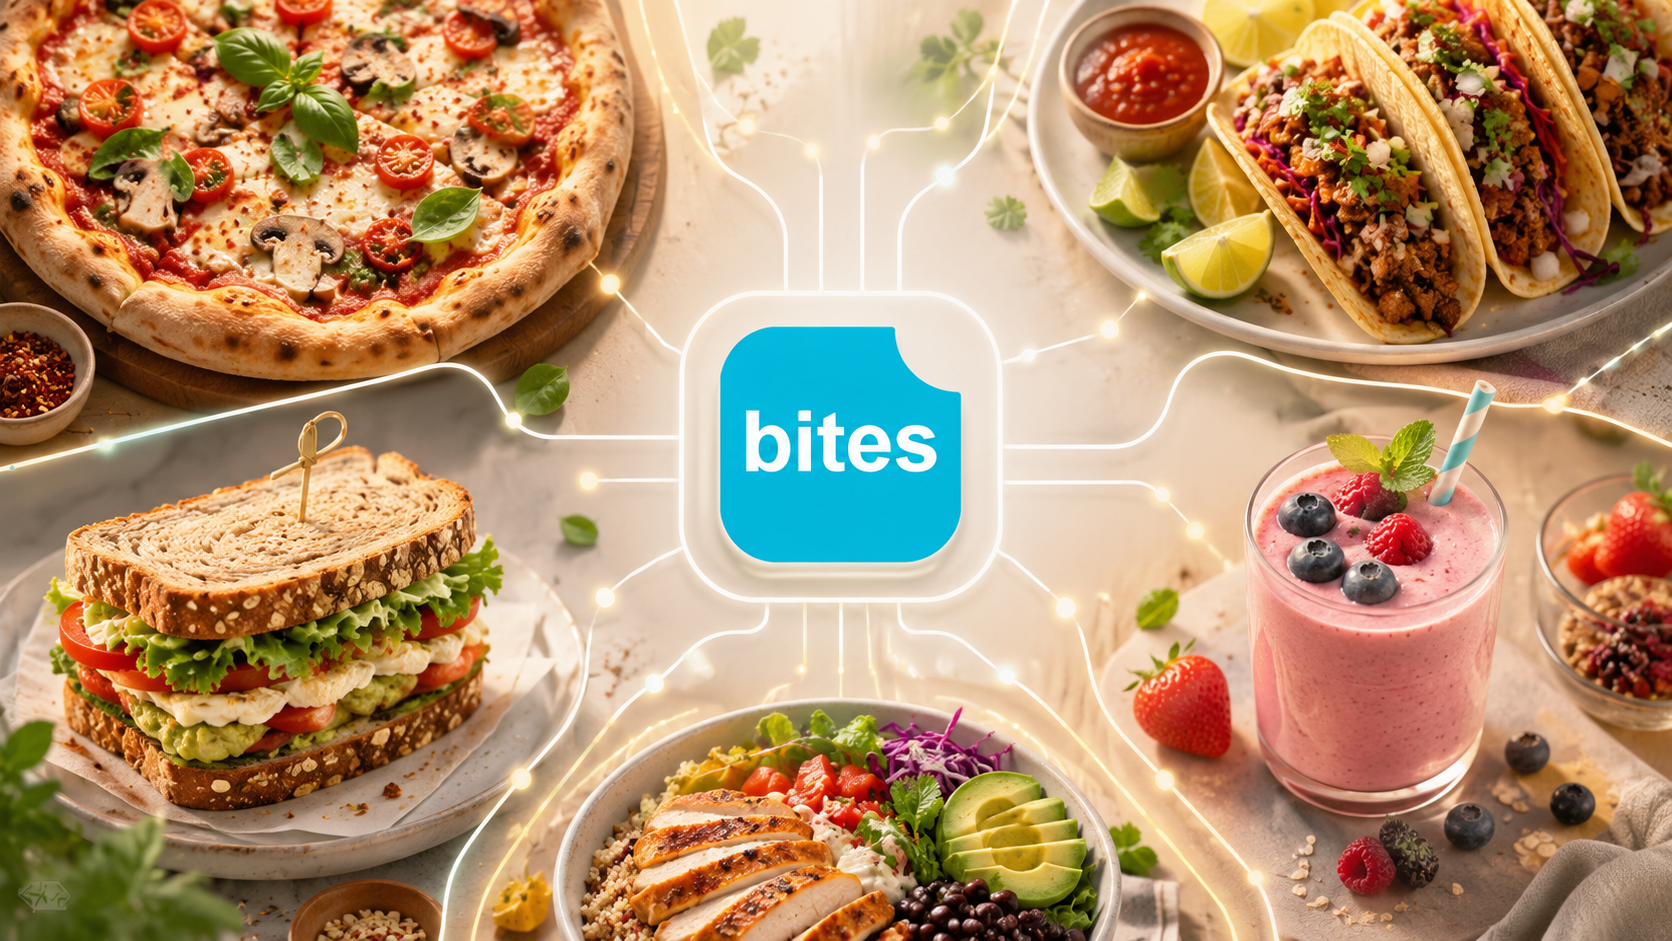
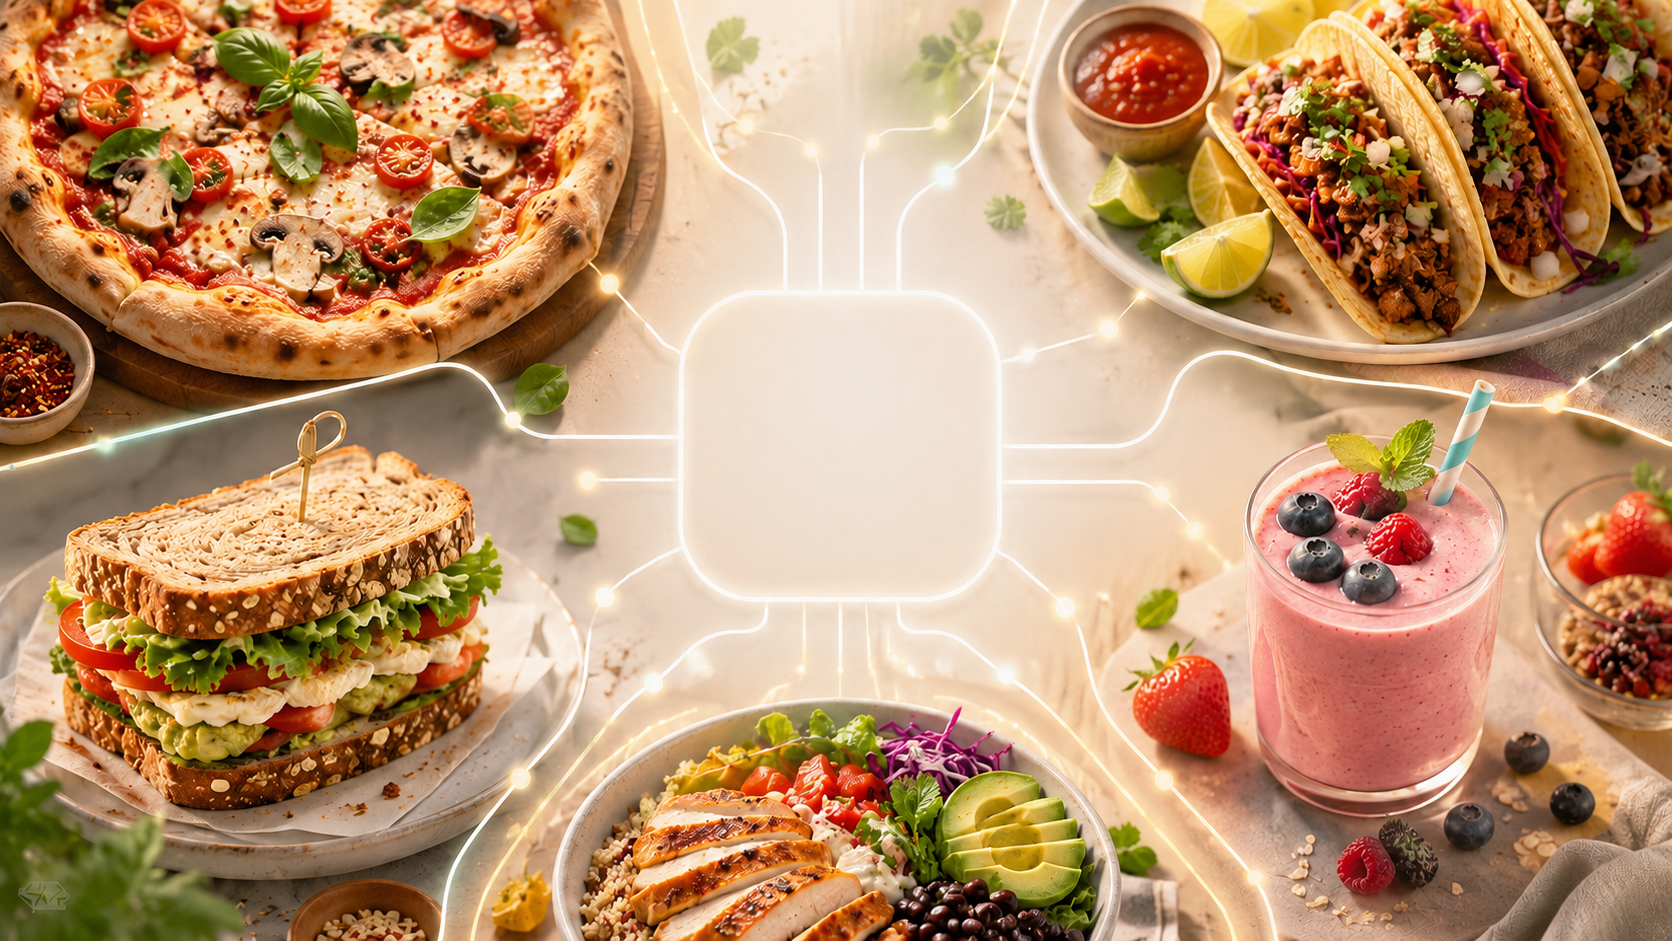
what a beautiful homepage

diff --git a/wolt-frontend/src/components/HomePage.jsx b/wolt-frontend/src/components/HomePage.jsx
@@ -1,4 +1,4 @@
-import React, { useEffect } from 'react';
+import React, { useEffect, useState } from 'react';
 import { Link } from 'react-router-dom';
 import './HomePage.css';
 
@@ -8,11 +8,21 @@ import './HomePage.css';
  * including a conditional link to the Owner Dashboard if the user is an owner.
  */
 const HomePage = ({ user }) => {
+    const [isLogoSpinning, setIsLogoSpinning] = useState(false);
+
     useEffect(() => {
         if (!user) {
             document.body.classList.remove('dark-theme');
         }
     }, [user]);
+
+    const handleLogoSpin = () => {
+        setIsLogoSpinning(true);
+
+        setTimeout(() => {
+            setIsLogoSpinning(false);
+        }, 900);
+    };
 
     const backgroundStyle = {
         backgroundImage: `
@@ -26,64 +36,50 @@ const HomePage = ({ user }) => {
 
     return (
         <div className="home-page-container" style={backgroundStyle}>
-            {user ? (
-                <div className="home-hero-layout animate__animated animate__fadeIn">
-                    <div className="home-title-card">
-                        <h1 className="display-4 fw-bold mb-3">
-                            Welcome {user.displayName || user.username || 'User'}!
-                        </h1>
+            <div className="home-hero-layout animate__animated animate__fadeIn">
+                <div className="home-title-card">
+                    <h1 className="display-4 fw-bold mb-3">
+                        Welcome!
+                    </h1>
 
-                        <p className="lead mb-0">
-                            This is your main Dashboard / Home Page.
-                        </p>
-                    </div>
+                    <p className="lead mb-0">
+                        {user
+                            ? 'This is your main Dashboard / Home Page.'
+                            : 'Explore restaurants and order your favorite food.'}
+                    </p>
+                </div>
 
-                    <div className="home-logo-space" />
+                <button
+                    type="button"
+                    className={`bites-center-logo-button ${isLogoSpinning ? 'spin-coin' : ''}`}
+                    onClick={handleLogoSpin}
+                    aria-label="Spin bites logo"
+                >
+                    <img
+                        src={`${process.env.PUBLIC_URL}/icon.svg`}
+                        alt="bites logo"
+                        className="bites-center-logo-img"
+                    />
+                </button>
 
-                    <div className="home-actions-card">
+                <div className="home-actions-card">
+                    <Link
+                        to="/restaurants"
+                        className="btn btn-primary rounded-pill px-4 py-2 fw-bold shadow-sm"
+                    >
+                        Go to Restaurants Feed
+                    </Link>
+
+                    {user?.role === 'owner' && (
                         <Link
-                            to="/restaurants"
+                            to="/owner/dashboard"
                             className="btn btn-primary rounded-pill px-4 py-2 fw-bold shadow-sm"
                         >
-                            Go to Restaurants Feed
+                            My Restaurants
                         </Link>
-
-                        {user.role === 'owner' && (
-                            <Link
-                                to="/owner/dashboard"
-                                className="btn btn-primary rounded-pill px-4 py-2 fw-bold shadow-sm"
-                            >
-                                My Restaurants
-                            </Link>
-                        )}
-                    </div>
+                    )}
                 </div>
-            ) : (
-                <div className="home-hero-layout animate__animated animate__fadeIn">
-                    <div className="home-title-card">
-                        <h1 className="display-4 fw-bold mb-3">
-                            <h1 className="display-4 fw-bold mb-3">
-                                Welcome!
-                            </h1>
-                        </h1>
-
-                        <p className="lead mb-0">
-                            This page is public and visible to everyone.
-                        </p>
-                    </div>
-
-                    <div className="home-logo-space" />
-
-                    <div className="home-actions-card">
-                        <Link
-                            to="/restaurants"
-                            className="btn btn-primary rounded-pill px-4 py-2 fw-bold shadow-sm"
-                        >
-                            Go to Restaurants Feed
-                        </Link>
-                    </div>
-                </div>
-            )}
+            </div>
         </div>
     );
 };

diff --git a/wolt-frontend/src/components/HomePage.css b/wolt-frontend/src/components/HomePage.css
@@ -21,13 +21,12 @@
 /* text above the logo, without white background */
 .home-title-card {
     position: absolute;
-    top: 48px;
+    top: 34px;
     left: 50%;
     transform: translateX(-50%);
 
     width: min(720px, 86vw);
-    padding: 26px 34px;
-    border-radius: 26px;
+    padding: 12px 24px;
 
     background: transparent;
     backdrop-filter: none;
@@ -39,19 +38,79 @@
 
 .home-title-card h1 {
     color: #202125;
-    margin-bottom: 12px;
+    margin-bottom: 8px;
+    font-size: clamp(2.4rem, 4.2vw, 4rem);
+    line-height: 1.05;
     text-shadow: 0 3px 14px rgba(255, 255, 255, 0.95);
 }
 
 .home-title-card p {
     color: #5f6872;
     margin-bottom: 0;
+    font-size: 1.15rem;
     text-shadow: 0 2px 10px rgba(255, 255, 255, 0.95);
 }
 
-/* no spacing element needed anymore */
-.home-logo-space {
-    display: none;
+/* clickable center logo */
+.bites-center-logo-button {
+    position: absolute;
+    left: 50%;
+    top: 48%;
+    transform: translate(-50%, -50%);
+
+    width: 230px;
+    height: 230px;
+
+    border: none;
+    background: transparent;
+    padding: 0;
+
+    cursor: pointer;
+    pointer-events: auto;
+    z-index: 4;
+
+    perspective: 1000px;
+}
+
+.bites-center-logo-img {
+    width: 100%;
+    height: 100%;
+    object-fit: contain;
+
+    filter: drop-shadow(0 14px 24px rgba(0, 0, 0, 0.18));
+
+    transition: transform 0.2s ease;
+    transform-style: preserve-3d;
+}
+
+.bites-center-logo-button:hover .bites-center-logo-img {
+    transform: scale(1.04);
+}
+
+.bites-center-logo-button.spin-coin .bites-center-logo-img {
+    animation: spinCoin 0.9s ease-in-out;
+}
+
+@keyframes spinCoin {
+    0% {
+        transform: rotateY(0deg) scale(1);
+    }
+
+    25% {
+        transform: rotateY(90deg) scale(1.08);
+    }
+
+    50% {
+        transform: rotateY(180deg) scale(1.12);
+    }
+
+    75% {
+        transform: rotateY(270deg) scale(1.08);
+    }
+
+    100% {
+        transform: rotateY(360deg) scale(1);
+    }
 }
 
 /* buttons below the logo, stacked vertically */
@@ -119,9 +178,9 @@ body.dark-theme .home-title-card p {
 /* Mobile adjustment */
 @media (max-width: 768px) {
     .home-title-card {
-        top: 32px;
+        top: 28px;
         width: min(620px, 90vw);
-        padding: 20px 22px;
+        padding: 10px 18px;
     }
 
     .home-title-card h1 {
@@ -130,6 +189,12 @@ body.dark-theme .home-title-card p {
 
     .home-title-card p {
         font-size: 1rem;
+    }
+
+    .bites-center-logo-button {
+        top: 48%;
+        width: 170px;
+        height: 170px;
     }
 
     .home-actions-card {
